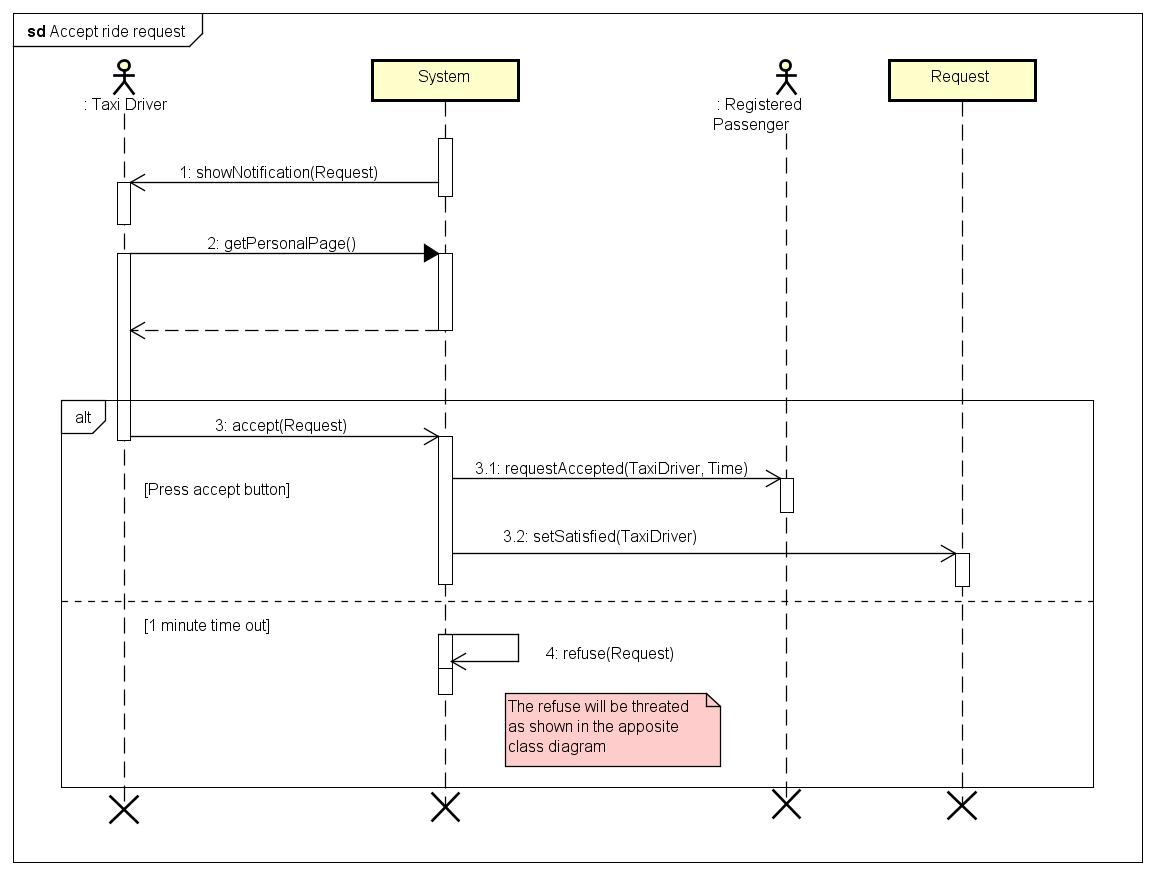
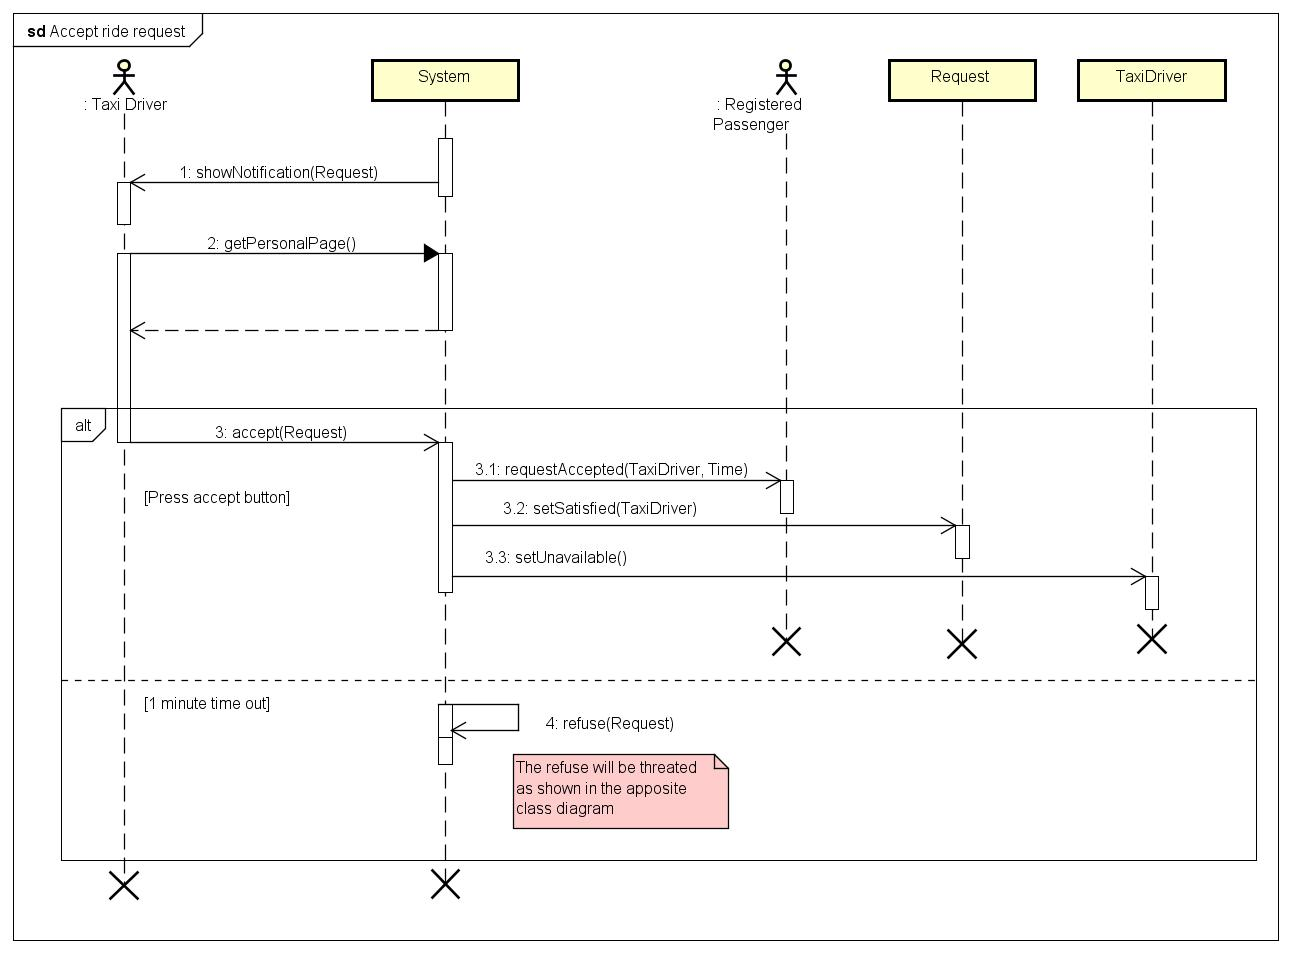
Diagram updates

diff --git a/SE2_TEX/SpecificRequirements.tex b/SE2_TEX/SpecificRequirements.tex
@@ -184,6 +184,7 @@ any external hardware interface.
 	\item When the taxi driver receives the notification, he accepts
 	\item The system shall register the answer and inform the passenger
 	that this taxi is reaching his position.
+	\item The system shall set the taxi driver status as unavailable
 \end{enumerate}
 \subsubsection{Permit a taxi driver to refuse a ride request}
 \begin{enumerate}[label=\bfseries R\arabic*:]
@@ -236,7 +237,8 @@ Luigi slowly ends his bar and starts answering some messages on his smartphone. 
 rings. He sees the notification, but he's very busy, so he declines the request. Luigi greets his
 friend on the chat and goes back to work. After a few minutes his phone rings again. A man called
 Mario is requesting a taxi in his area, right next to the train station. He accepts the request and
-starts driving towards the location of the customer.
+starts driving towards the location of the customer. After the ride, Luigi sets his status back to
+available and waits for another request.
 \subsubsection{Taxi availability}
 After a hard morning, Luigi decides that it is the right time to have lunch. He opens our mobile
 application and sets his status as unavailable: he does not want to be disturbed during such an
@@ -505,6 +507,7 @@ Finally Luigi will get its deserved peace.
 			\item The taxi driver presses the Accept button
 			\item The system notifies the user who asked for the taxi sending him
 			information about the taxi and the arrival time
+			\item The system sets the taxi driver as unavailable
 		\end{enumerate}
 		\\ \hline
 		Postconditions & The taxi driver is not enqueued again and the user's request

diff --git a/SE2_TEX/OverallDescription.tex b/SE2_TEX/OverallDescription.tex
@@ -79,8 +79,9 @@
 			If he does not agree, his request will not be forwarded;
 			\item After a request, a user (registered or guest) can not make other requests in the next 30 minutes;
 			\item A user must be signed up to make a reservation;
-			\item Reservations must be taken at least 2 hours in advance from the time of taxi's request,
+			\item Reservations must be taken at least 2 hours in advance from the time of taxi request,
 			otherwise the reservation will not be accepted;
+			\item Reservations must have 30 minutes of distance between them, otherwise they will not be accepted
 			\item A user that registered a reservation for a taxi can not make requests within 30 minutes
 			before the reservation;
 			\item A reservation can be cancelled until 10 minutes before the request time.
